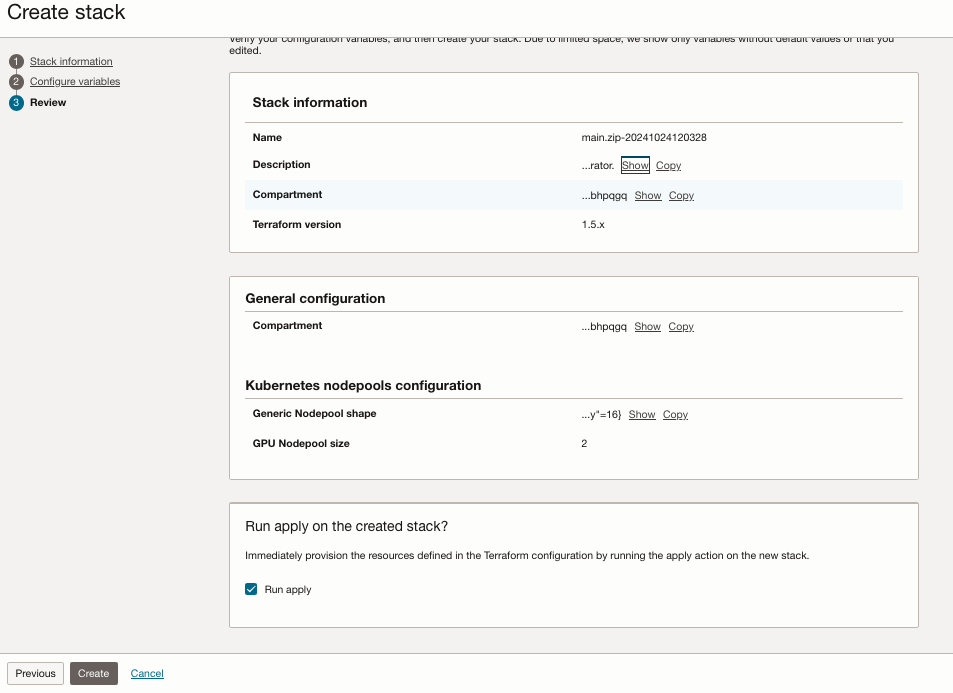
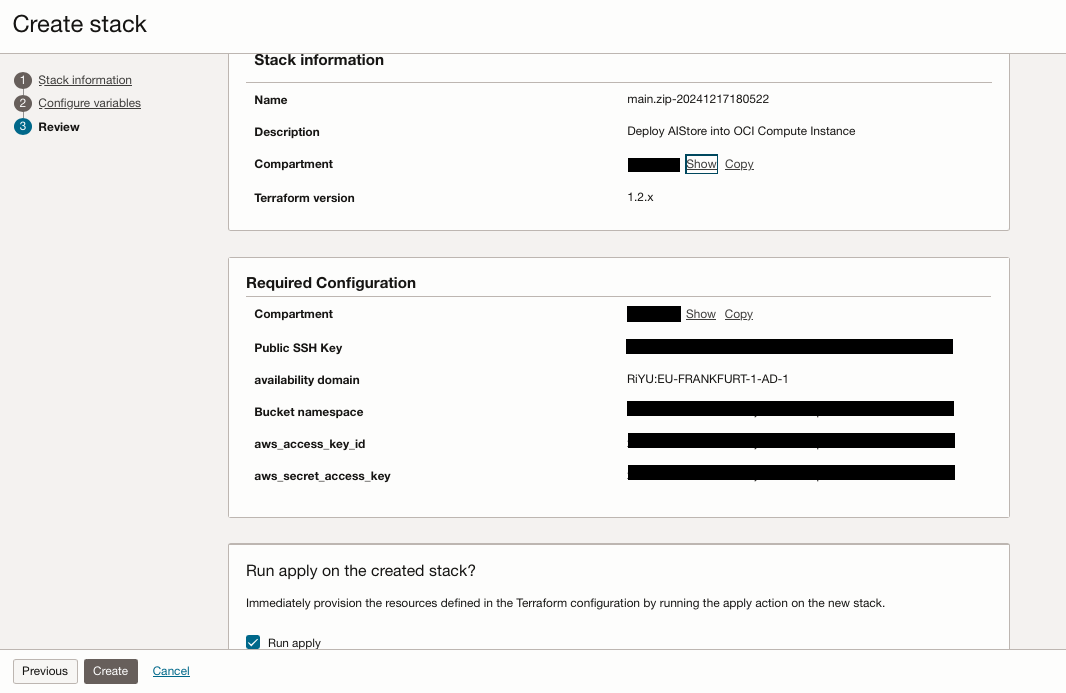
provision lab completed

diff --git a/aistore/aistore_cli/aistore_cli.md b/aistore/aistore_cli/aistore_cli.md
@@ -2,101 +2,27 @@
 
 ## Introduction
 
-This lab will demonstrate how to use Kueue for effective resource quota management in OKE clusters, while running AI/ML tasks across multiple namespaces with Kuberay-Operator. In this lab we will simulate two teams operating in separate namespaces, each with dedicated resources that they can share with one another as needed.
+This lab will demonstrate how to use a deployed AIStore cluster into OCI environment using AIS CLI commands.
  
-Estimated Workshop Time: 1 h
+Estimated Workshop Time: 30 min
 
 ### Objectives
 
 This lab will guide you through how to:
-- use Kueue for quota management of resources in OKE cluster when there are multiple teams that share resource in the cluster
-- run AI/ML jobs in multiple namespaces using Kuberay-Operator
+- use AIStore to list buckets in OCI
+- use AIS CLI to copy from OCI to AIS and delete from AIS 
 
 ### Prerequisites
 
 This lab assumes you have:
 
-* An Oracle Cloud account
-* Administrator permissions or permissions to use the OCI Compute, OKE and Identity Domains
-* Ability to provision A10 vm instances in OCI
 * Lab 1. Provision of OCI infrastructure completed
 
+## Task 1: SSH into VM Instance
 
-## Task 1: SSH into Operator host
-In the ```Outputs``` sections of the apply-job in Resource Manager you will see Key named ```ssh_to_operator```, click on ``` Copy ``` at the ```Value``` column of that key and use it to ssh into operator host
 ![SSH Operator](images/ssh_to_operator.png)
 
 ## Task 2: Verify if resources needed for the lab are created
-
-1. Verify Kueue is installed with the following command: ```k get all -n kueue-system```. You should have something similar to the screenshot:
-![Kueue System](images/kueue-system.png)
-
-2. Verify Kuberay Operator is installed with the following command: ```k get all -n kuberay-operator```. You should have something similar to the screenshot below:
-![Kuberay Operator](images/kuberay-operator.png)
-
-3. Verify localqueue and clusterqueue are deployed with the following commands: 
-```
-<copy>
-k get clusterqueue 
-k get localqueue -n team-a 
-k get localqueue -n team-b 
-</copy>
-```
-Note: ClusterQueues are cluster-wide objects that manage a shared pool of resources (CPU, memory, hardware accelerators) and LocalQueues are namespace-specific objects linked to ClusterQueues, enabling resource allocation from the cluster pool to support LocalQueue workloads. 
-
-In our example *cq-team-a* and *cq-team-b* share the same cohort *all-teams* and this means they can borrow unused quota from each other. You will see something similar to the screenshots below:
-![Cluster Queue](images/clusterqueue.png)    
-![Local Queue](images/localqueue.png)
-
-
-
-## Task 3: Run Rayjob with Fine-tune a PyTorch Lightning Text Classifier and observe the admitted workloads
-1. In ```/home/opc``` you have a folder named ```kubectl-files```. Under that folder you have multiple yaml files. For this lab we will use ```ray-job.pytorch-team-a.yaml``` and ```ray-job.pytorch-team-b.yaml```. 
-2. First you will run the following command: 
-``` 
-<copy>
-k create -f /home/opc/kubectl-files/ray-job.pytorch-team-a.yaml
-</copy>
-```
-This command will create a rayjob which deploys a pod that runs a **Fine-tuning model of PyTorch Lightning Text Classifier**. For first job that runs this it will take up to 25 minutes because it pulls the **rayproject/ray-ml:2.9.0-gpu** image for running the Ray cluster besides the actual run of the fine-tune model into Ray cluster. For the rest of job runs it will take 8-10minutes
-
-3. While you are waiting for the rayjob to finish you can observe:
-- in ```ray-job.pytorch-team-a.yaml``` file and see that the job it is created under **team-a** namespace. The same for ```ray-job.pytorch-team-b.yaml``` it will be create under **team-b** namespace
-![RayJob Team-A](images/rayjob-team-a.png)
-![RayJob Team-B](images/rayjob-team-b.png)
-- if you run ```k describe rayjob rayjob-name -n team-a``` the status of the job.
-- if you run ```k describe clusterqueue cq-team-a``` you will see under **Flavors Usage** the resources borrowed by the job from team-a to run.
-- if you run ```k create -f /home/opc/kubectl-files/ray-job.pytorch-team-b.yaml``` multiple times and then run ```k describe clusterqueue cq-team-b``` you will see under **Flavors Usage** how many Pending Workloads you have and how many Reserving Workloads you have.
-![ResourceFlavors](images/resourceflavors.png)
-- in order to see when the job is finished run the following commands:
-
-```
-<copy>
-kubectl get rayjobs.ray.io rayjob-name -o jsonpath='{.status.jobStatus}' -n team-a/b
-kubectl get rayjobs.ray.io rayjob-name -o jsonpath='{.status.jobDeploymentStatus}' -n team-a/b
-</copy>
-```
-Example:
-![Succeded](images/succeded.png)
-![Complete](images/complete.png)
-
-
-## Task 4: CleanUp the cluster
-1. Run the following command: 
-``` 
-<copy>
-k get rayjob -n team-a
-k get rayjob -n team-b
-</copy>
-```
-2. Based on the rayjobs list provided by the previous command, run the following command for each rayjob: 
-```
-<copy>
-k delete rayjob <rayjob_name> -n team-a/b
-</copy>
-```  
-This will also remove the pods created within the jobs.
-
 
 
 ## Learn More

diff --git a/aistore/provision/provision.md b/aistore/provision/provision.md
@@ -15,8 +15,8 @@ Provisioning of the infrastructure using OCI Resource Manager.
 This lab assumes you have:
 
 * An Oracle Cloud account
-* Administrator permissions or permissions to use the OCI Compute, OKE and Identity Domains
-* Ability to provision A10 vm instances in OCI
+* Administrator permissions or permissions to use the OCI Compute and OCI Object Storage
+* Ability to provision Flex shape vm instances in OCI
 
 ## Task 1: Provision resources
 
@@ -30,39 +30,29 @@ This lab assumes you have:
 
 2. Provide the following information: 
 
-**Select Compartment**: Choose the appropriate compartment for the Kubernetes cluster.
+**Compartment**: Choose the appropriate compartment where to deploy VM instance.
 
-**Cluster Name**: Enter a descriptive name for the cluster.
-![Compartment and Cluster name](images/compartment_and_cluster_name.png)
+![Compartment name](images/compartment_name.png)
 
-**Create New VCN**: Check the option to create a new VCN, provide a name, and leave other networking details as default.
+**Create New VCN**: Check the option to create a new VCN and you can leave networking details as default.
 ![Network Configuration](images/network_config.png)
 
-**Node Pool Configuration**: Set the GPU node pool size to 2; leave other settings as default or adjust as needed.
-![OKE Configuration](images/oke_config.png)
+**VM Instance Configuration**: In this section you will need to provide your public SSH key and select and Availability Domain in which the VM instance whill be deployed. The VM display you can leave as default.
+![VM instance Configuration](images/instance_config.png)
+
+**Object Storage Configuration**: In this section you will need to provide bucket namespace, access key id and secret access key.
+![VM instance Configuration](images/object_storage_config.png)
+The bucket namespace you can retrieve following the steps in the image bellow:
+![Tenancy Namespace Page](images/tenancy_namespace.png)
+The access key id and secret access key you can get following the steps in the image bellow:
+![Customer Secret Keys](images/secret_keys.png)
 
 
-3. Next, we have 3 options in Access to the Kubernetes cluster and provide your ssh key to connect to the bastion and operator hosts.
-
-    You can deploy the resources in two ways: 
-    - you check "Create a bastion and operator hosts" and "Create operator IAM policy". In this way the operator host would be configured with kubectl so you can directly execute command from operator against the kubernetes cluster 
-    - you don't check "Create a bastion and operator hosts" and "Create operator IAM policy" and you check "Create public OKE API" and commands can be executed from oracle resource manager runner.
-
-    Note: If you create bastion and operator hosts then creating a public oke endpoint is optional. 
-    
-    For this workshop you will check "Create a bastion and operator hosts" and "Create operator IAM policy" and provide your public key to connect to the bastion and operator hosts.
-
-![Access to OKE](images/access_to_oke.png)
-
-5. Next, in Helm Chart deployments section check all the 2 boxes and leave them as default. 
-
-![Access to OKE](images/helm_charts.png)
-
-6. Click Next and then select Run Apply and finally click on Create as shown below.
+3. Click Next and then select Run Apply and finally click on Create as shown below.
 
 ![Review Create](images/review_create.png)
 
-13. Wait for the job to complete, which may take aproximatively 15-20 minutes before the infrastructure is fully provisioned.
+4. Wait for the job to complete, which may take aproximatively 4-5 minutes before the infrastructure is fully provisioned.
 
 You may now proceed to the next lab.
 
@@ -71,4 +61,4 @@ You may now proceed to the next lab.
 **Authors**
 
 * **Cristian Vlad**, Principal Cloud Architect, NACIE
-* **Last Updated By/Date** - Cristian Vlad, October 2024
+* **Last Updated By/Date** - Cristian Vlad, December 2024
